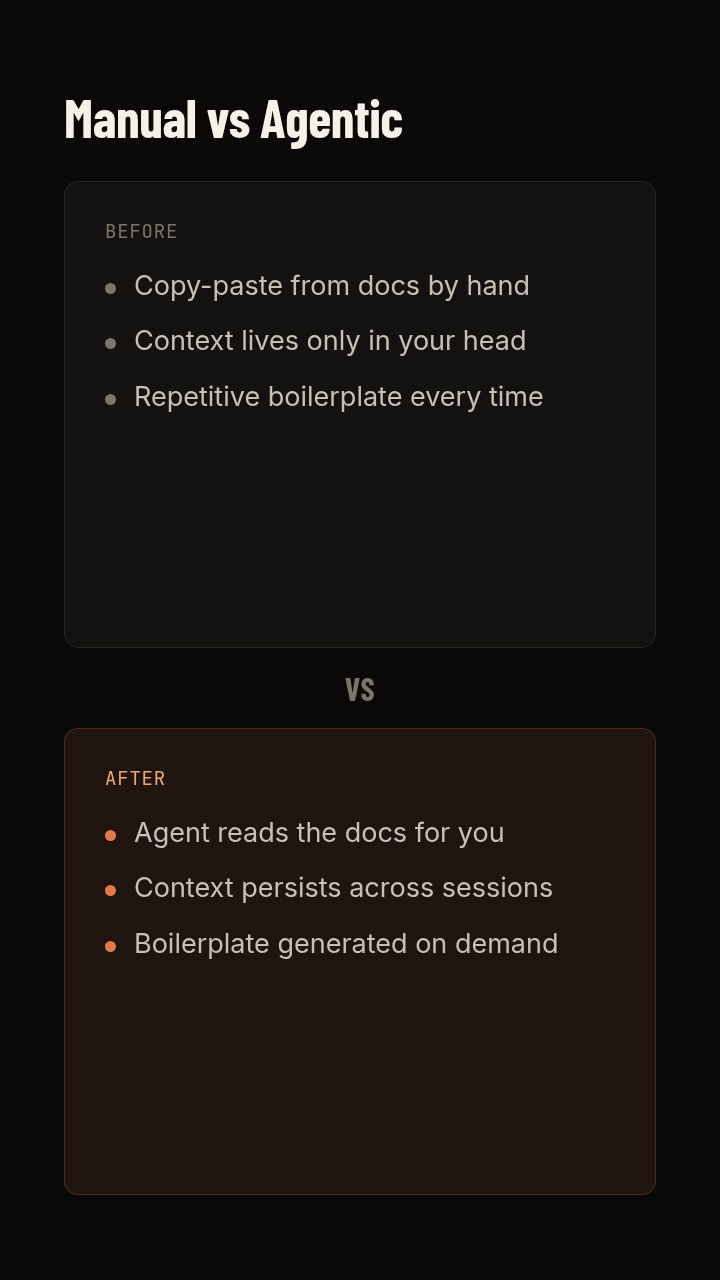
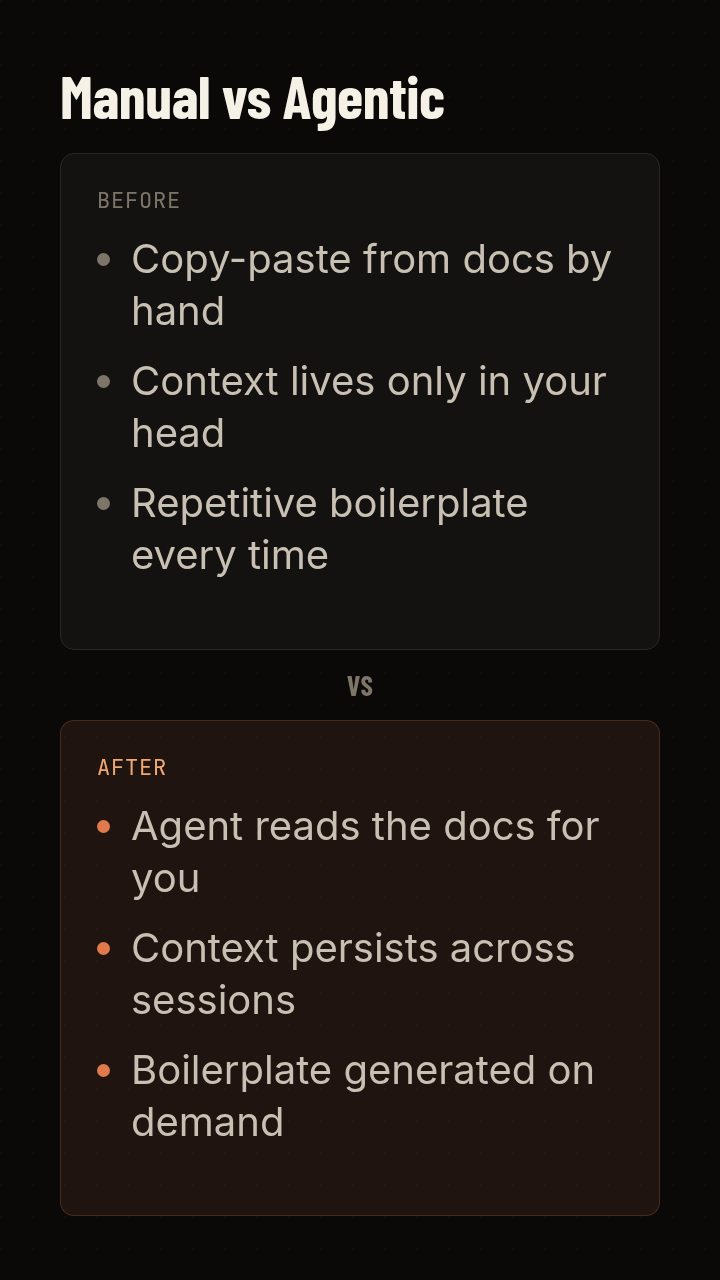
fix(templates): size portrait type for the phone, not for the transposed canvas
The portrait canvas is landscape transposed — 1280x720 becomes 720x1280 — but
the type kept the same absolute px sizes. The frame became 1.78x taller, so the
type fell to roughly half its landscape size as a SHARE OF THE FRAME. That share
is the only measure that matters here: these slides are Instagram Reels, watched
on a phone, at arm's length, usually muted.

There is no autofit anywhere in the chain. Nothing shrank at render time; the
type was simply never rescaled when the canvas rotated. So a minimum-size floor
has nothing to hold back — the sizes themselves were wrong. Measured across all
47 templates, portrait type sits at 0.39-0.69x its landscape share of frame
height (mean ~0.57). This commit fixes the three templates that were reported.

comparison — the body sentence goes 27px to 40px (2.11% to 3.13% of frame
height; 41px to 60px at the 1080x1920 export). Title 53px to 60px, panel label
19px to 22px. Padding tightened to pay for it.

kpi — one column, full width, and the grid now flexes to fill the frame instead
of sitting in static flow above an empty bottom half. Label on the left, number
on the right. The number goes 69px to 84px (5.39% to 6.56%). grid-auto-rows: 1fr
makes the row count irrelevant, and the type is sized for the 6-row sample.json
worst case, so no card overflows as items are added.

quote — the quote body goes 34px to 56px (2.66% to 4.38%), and the decorative
mark steps back 96px to 76px. The ornament was nearly 3x the sentence it
[…]

diff --git a/templates/kpi/portrait.css b/templates/kpi/portrait.css
@@ -1,16 +1,32 @@
-/* tpl-kpi · portrait — 720×1280 */
+/* tpl-kpi · portrait — 720×1280
+ *
+ * ONE COLUMN, FULL WIDTH, AND THE GRID FILLS THE FRAME.
+ * The 2-column grid here was the landscape 3-column grid with one column
+ * removed. On a phone that wasted the width twice over: each card was half the
+ * frame wide, and the grid sat in static flow at the top, so a 4-card slide left
+ * the bottom HALF of the frame empty and still had to shrink its number to fit
+ * a narrow card. Portrait now stacks one card per row, full-bleed between the
+ * page margins, and the grid flexes to consume the height — so the number is
+ * sized by the frame instead of by a column.
+ *
+ * `grid-auto-rows: 1fr` is what makes the row count irrelevant: the 4 real KPIs
+ * and the 6 in sample.json divide the same height evenly. Type is sized for the
+ * 6-row worst case, so no card overflows as items are added.
+ */
 
 .tpl-root.tpl-kpi.tpl-kpi--portrait {
   position: relative;
   width: 720px;
   height: 1280px;
-  padding: 96px 75px;
+  padding: 84px 64px;
   background: var(--s-surface-page, #0a0908);
   color: var(--s-ink-primary, #f6f1e7);
   font-family: var(--s-font-body, 'Inter', system-ui, sans-serif);
   box-sizing: border-box;
   overflow: hidden;
   isolation: isolate;
+  display: flex;
+  flex-direction: column;
 }
 
 .tpl-root.tpl-kpi.tpl-kpi--portrait::before {
@@ -25,24 +41,45 @@
 
 .tpl-root.tpl-kpi.tpl-kpi--portrait > * { position: relative; z-index: 1; }
 
-.tpl-root.tpl-kpi.tpl-kpi--portrait .tpl-kpi__title { margin-top: 19px; }
+/* The theme chassis sizes .dfl-eyebrow / .dfl-section-title for a 720px-tall
+ * canvas. Both are restated here for the 1280px one; the override is scoped to
+ * this template's portrait canvas, so image-row and steps are untouched. */
+.tpl-root.tpl-kpi.tpl-kpi--portrait .dfl-eyebrow {
+  font-size: 20px;
+  flex: 0 0 auto;
+}
+
+.tpl-root.tpl-kpi.tpl-kpi--portrait .tpl-kpi__title {
+  font-size: 58px;
+  margin-top: 14px;
+  flex: 0 0 auto;
+}
+
+.tpl-root.tpl-kpi.tpl-kpi--portrait .dfl-section-rule { flex: 0 0 auto; }
 
 .tpl-root.tpl-kpi.tpl-kpi--portrait .tpl-kpi__grid {
+  flex: 1 1 auto;
+  min-height: 0;
   display: grid;
-  grid-template-columns: 1fr 1fr;
-  gap: 19px;
-  margin-top: 11px;
+  grid-template-columns: 1fr;
+  grid-auto-rows: 1fr;
+  gap: 16px;
+  margin-top: 8px;
 }
 
 .tpl-root.tpl-kpi.tpl-kpi--portrait .tpl-kpi__card {
-  padding: 29px 32px;
+  min-height: 0;
+  padding: 26px 36px;
   background: var(--s-surface-panel, #141210);
   border: 1px solid var(--s-border-subtle, #2a2622);
   border-radius: var(--p-radius-lg, 10px);
   display: flex;
-  flex-direction: column;
-  gap: 8px;
+  flex-direction: row;
+  align-items: center;
+  justify-content: space-between;
+  gap: 24px;
   position: relative;
+  overflow: hidden;
 }
 
 .tpl-root.tpl-kpi.tpl-kpi--portrait .tpl-kpi__card.is-brand {
@@ -50,26 +87,39 @@
   border-color: var(--s-brand-border, rgba(224, 122, 74, 0.22));
 }
 
+.tpl-root.tpl-kpi.tpl-kpi--portrait .tpl-kpi__meta {
+  display: flex;
+  flex-direction: column;
+  gap: 8px;
+  min-width: 0;
+}
+
 .tpl-root.tpl-kpi.tpl-kpi--portrait .tpl-kpi__label {
   font-family: var(--s-font-mono, 'JetBrains Mono', monospace);
-  font-size: 17px;
+  font-size: 24px;
+  line-height: 1.25;
   letter-spacing: var(--p-tracking-wider, 0.8px);
   text-transform: uppercase;
   color: var(--s-ink-muted, #7d7568);
 }
 
+/* 84px of 1280 = 6.56% of the frame (126px at 1080x1920), up from 69px / 5.39%.
+ * Sized for the 6-row case so the number never has to shrink. */
 .tpl-root.tpl-kpi.tpl-kpi--portrait .tpl-kpi__value {
   font-family: var(--s-font-display, 'Barlow Condensed', sans-serif);
-  font-size: 69px;
+  font-size: 84px;
   font-weight: var(--p-weight-700, 700);
   letter-spacing: var(--p-tracking-tight, -0.4px);
   line-height: 1;
   color: var(--s-ink-primary, #f6f1e7);
   font-feature-settings: "tnum" 1;
+  flex: 0 0 auto;
+  white-space: nowrap;
 }
 
 .tpl-root.tpl-kpi.tpl-kpi--portrait .tpl-kpi__delta {
   font-family: var(--s-font-mono, 'JetBrains Mono', monospace);
-  font-size: 20px;
+  font-size: 22px;
+  line-height: 1.2;
   color: var(--s-success-fg, #7ad79a);
 }

diff --git a/templates/comparison/portrait.css b/templates/comparison/portrait.css
@@ -1,10 +1,19 @@
-/* tpl-comparison · portrait — 720×1280 */
+/* tpl-comparison · portrait — 720×1280
+ *
+ * TYPE IS SIZED FOR A PHONE, NOT FOR A DESKTOP PREVIEW.
+ * This canvas is the 9:16 transpose of landscape (1280×720), and it exports at
+ * 1080×1920 (dfl-lesson-studio scales the 720px design box by 1.5). A size that
+ * reads well on the 720px-TALL landscape canvas is the same absolute px on a
+ * canvas that is 1.78x taller, so it lands ~44% smaller as a SHARE OF THE FRAME
+ * — the only measure that matters when the frame is a phone at arm's length.
+ * Judge every size here as a percentage of 1280, never in px.
+ */
 
 .tpl-root.tpl-comparison.tpl-comparison--portrait {
   position: relative;
   width: 720px;
   height: 1280px;
-  padding: 85px 64px;
+  padding: 64px 60px;
   background: var(--s-surface-page, #0a0908);
   color: var(--s-ink-primary, #f6f1e7);
   font-family: var(--s-font-body, 'Inter', system-ui, sans-serif);
@@ -13,7 +22,7 @@
   isolation: isolate;
   display: flex;
   flex-direction: column;
-  gap: 32px;
+  gap: 26px;
 }
 
 .tpl-root.tpl-comparison.tpl-comparison--portrait::before {
@@ -31,7 +40,8 @@
 .tpl-root.tpl-comparison.tpl-comparison--portrait .tpl-comparison__title {
   flex: 0 0 auto;
   font-family: var(--s-font-display, 'Barlow Condensed', sans-serif);
-  font-size: 53px;
+  font-size: 60px;
+  line-height: 1.05;
   font-weight: var(--p-weight-600, 600);
   letter-spacing: var(--p-tracking-tight, -0.4px);
   color: var(--s-ink-primary, #f6f1e7);
@@ -44,19 +54,19 @@
   display: flex;
   flex-direction: column;
   align-items: stretch;
-  gap: 21px;
+  gap: 18px;
 }
 
 .tpl-root.tpl-comparison.tpl-comparison--portrait .tpl-comparison__panel {
   flex: 1 1 0;
   min-height: 0;
-  padding: 37px 40px;
+  padding: 32px 36px;
   border-radius: var(--p-radius-xl, 14px);
   border: 1px solid var(--s-border-subtle, #2a2622);
   background: var(--s-surface-panel, #141210);
   display: flex;
   flex-direction: column;
-  gap: 24px;
+  gap: 18px;
 }
 
 .tpl-root.tpl-comparison.tpl-comparison--portrait .tpl-comparison__panel--right {
@@ -66,7 +76,7 @@
 
 .tpl-root.tpl-comparison.tpl-comparison--portrait .tpl-comparison__label {
   font-family: var(--s-font-mono, 'JetBrains Mono', monospace);
-  font-size: 19px;
+  font-size: 22px;
   letter-spacing: var(--p-tracking-wider, 0.8px);
   text-transform: uppercase;
   color: var(--s-ink-muted, #7d7568);
@@ -82,14 +92,14 @@
   padding: 0;
   display: flex;
   flex-direction: column;
-  gap: 19px;
+  gap: 18px;
 }
 
 .tpl-root.tpl-comparison.tpl-comparison--portrait .tpl-comparison__item {
   position: relative;
-  padding-left: 29px;
-  font-size: 27px;
-  line-height: 1.35;
+  padding-left: 34px;
+  font-size: 40px;
+  line-height: 1.3;
   color: var(--s-ink-secondary, #c9c0b4);
 }
 
@@ -97,9 +107,9 @@
   content: "";
   position: absolute;
   left: 0;
-  top: 15px;
-  width: 11px;
-  height: 11px;
+  top: 20px;
+  width: 13px;
+  height: 13px;
   border-radius: 999px;
   background: var(--s-ink-muted, #7d7568);
 }
@@ -112,7 +122,7 @@
   flex: 0 0 auto;
   align-self: center;
   font-family: var(--s-font-display, 'Barlow Condensed', sans-serif);
-  font-size: 32px;
+  font-size: 28px;
   font-weight: var(--p-weight-700, 700);
   letter-spacing: var(--p-tracking-wide, 0.5px);
   color: var(--s-ink-muted, #7d7568);

diff --git a/templates/quote/portrait.css b/templates/quote/portrait.css
@@ -1,10 +1,18 @@
-/* tpl-quote · portrait — 720×1280 · DFL DS tokens */
+/* tpl-quote · portrait — 720×1280 · DFL DS tokens
+ *
+ * THE QUOTE IS THE CONTENT; THE MARK IS DECORATION.
+ * Portrait ran the quote at 34px and the opening mark at 96px, so the ornament
+ * was nearly 3x the sentence it introduced — and `line-height: 0.5` clipped the
+ * mark's own glyph by 29px. The body is now 56px (4.38% of the frame, 84px at
+ * 1080x1920) and the mark steps back to 76px. `max-width` also rose from 520px
+ * to the full 592px between the page margins, which the text was never using.
+ */
 
 .tpl-root.tpl-quote {
   position: relative;
   width: 720px;
   height: 1280px;
-  padding: 85px 64px;
+  padding: 72px 64px;
   background: var(--s-surface-page, #0a0908);
   color: var(--s-ink-primary, #f6f1e7);
   font-family: var(--s-font-body, 'Inter', system-ui, sans-serif);
@@ -29,39 +37,39 @@
 .tpl-root.tpl-quote > * { position: relative; z-index: 1; }
 
 .tpl-root.tpl-quote .tpl-quote__inner {
-  max-width: 520px;
+  max-width: 592px;
   text-align: center;
 }
 
 .tpl-root.tpl-quote .tpl-quote__mark {
   font-family: var(--s-font-editorial, Georgia, 'Times New Roman', serif);
-  font-size: 96px;
-  line-height: 0.5;
+  font-size: 76px;
+  line-height: 1;
   color: var(--s-brand-solid, #E07A4A);
-  margin-bottom: 28px;
+  margin-bottom: 12px;
   display: block;
 }
 
 .tpl-root.tpl-quote .tpl-quote__text {
   font-family: var(--s-font-editorial, Georgia, 'Times New Roman', serif);
-  font-size: 34px;
+  font-size: 56px;
   font-weight: var(--p-weight-400, 400);
   font-style: italic;
-  line-height: 1.5;
+  line-height: 1.34;
   color: var(--s-ink-primary, #f6f1e7);
-  margin: 0 0 32px 0;
+  margin: 0 0 40px 0;
 }
 
 .tpl-root.tpl-quote .tpl-quote__attribution {
   display: flex;
   flex-direction: column;
   align-items: center;
-  gap: 8px;
+  gap: 10px;
 }
 
 .tpl-root.tpl-quote .tpl-quote__author {
   font-family: var(--s-font-body, 'Inter', system-ui, sans-serif);
-  font-size: 23px;
+  font-size: 30px;
   font-weight: var(--p-weight-600, 600);
   color: var(--s-ink-primary, #f6f1e7);
   display: block;
@@ -69,7 +77,7 @@
 
 .tpl-root.tpl-quote .tpl-quote__source {
   font-family: var(--s-font-mono, 'JetBrains Mono', monospace);
-  font-size: 17px;
+  font-size: 22px;
   font-weight: var(--p-weight-500, 500);
   letter-spacing: var(--p-tracking-wider, 0.8px);
   text-transform: uppercase;

diff --git a/templates/kpi/portrait.html b/templates/kpi/portrait.html
@@ -5,9 +5,11 @@
   <div class="tpl-kpi__grid">
     {{#items}}
     <div class="tpl-kpi__card{{#brand}} is-brand{{/brand}}">
-      <span class="tpl-kpi__label">{{label}}</span>
+      <div class="tpl-kpi__meta">
+        <span class="tpl-kpi__label">{{label}}</span>
+        {{#delta}}<span class="tpl-kpi__delta">{{delta}}</span>{{/delta}}
+      </div>
       <span class="tpl-kpi__value">{{value}}</span>
-      {{#delta}}<span class="tpl-kpi__delta">{{delta}}</span>{{/delta}}
     </div>
     {{/items}}
   </div>
